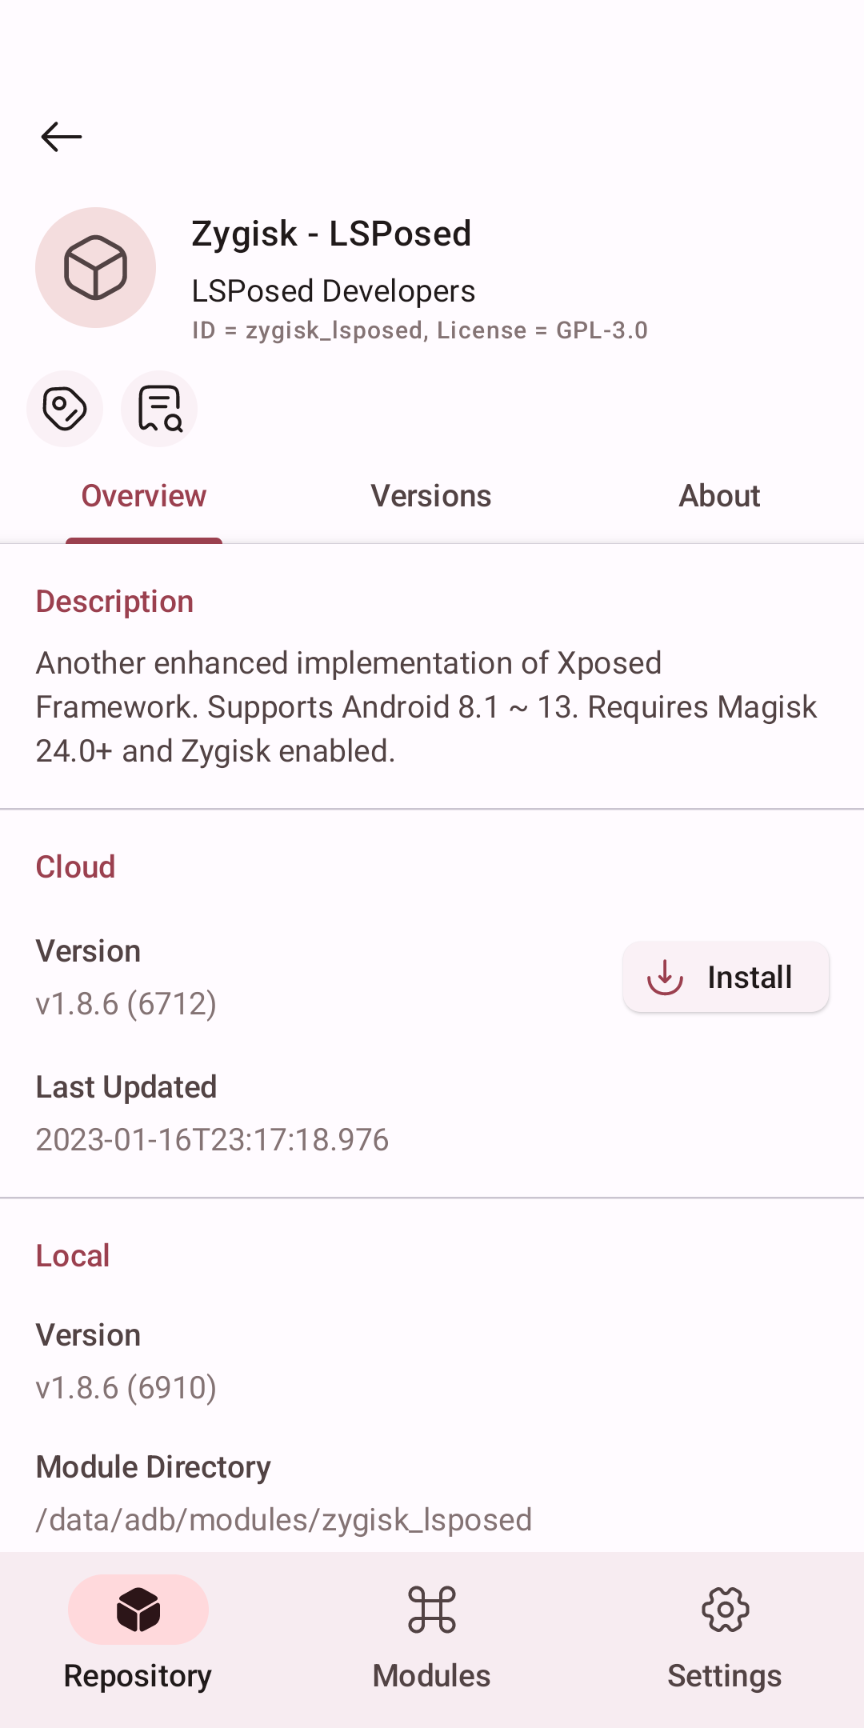
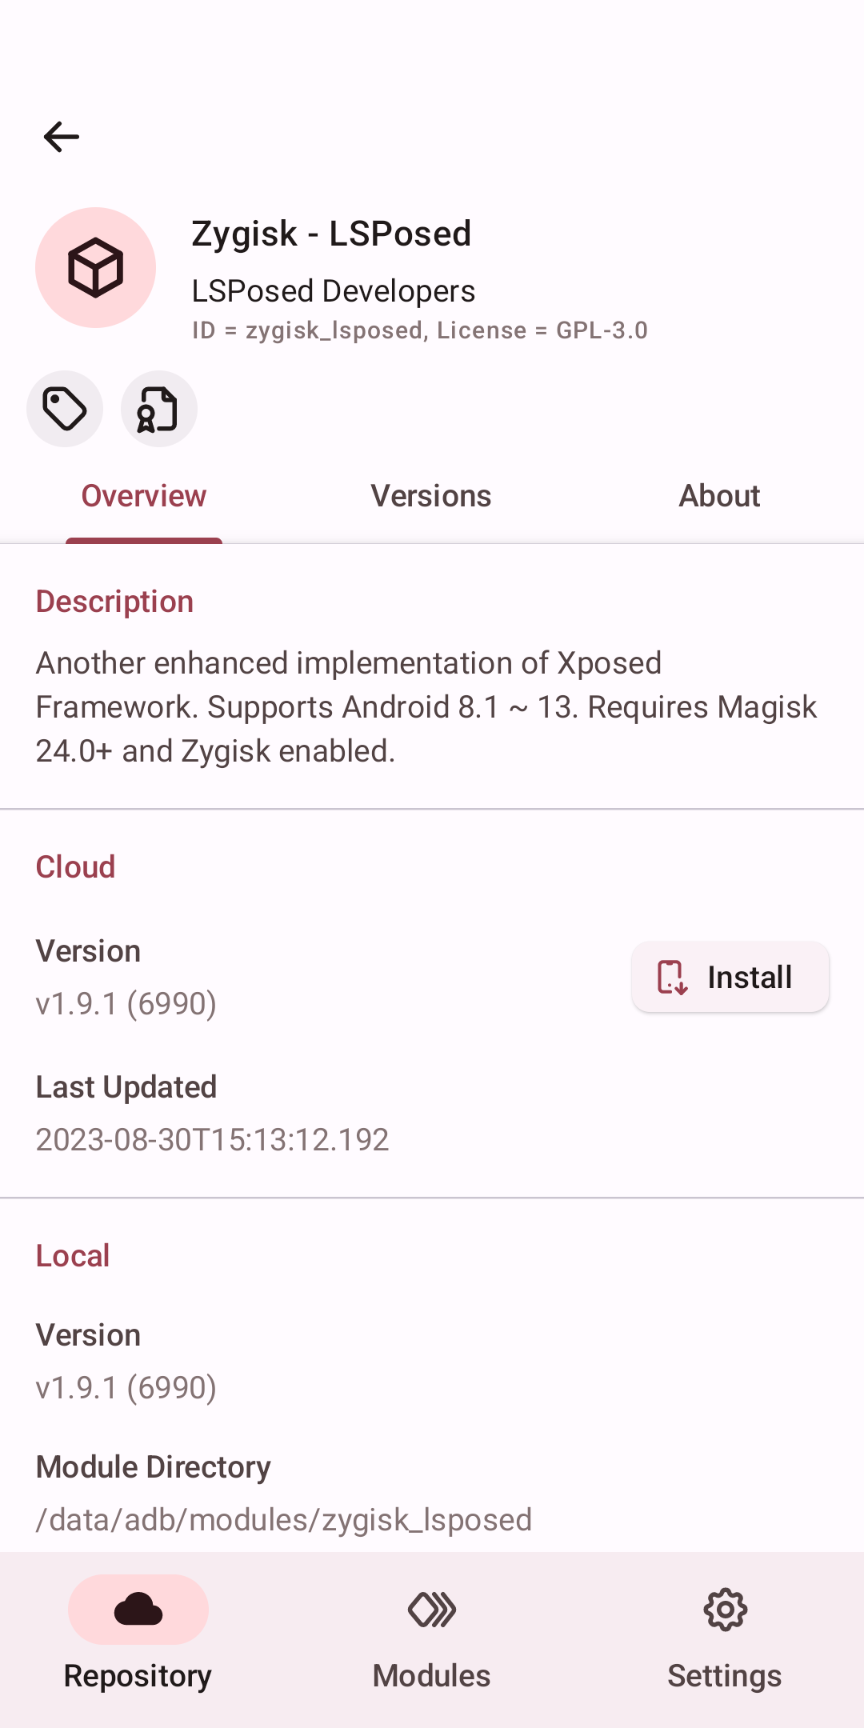
[skip ci] Update screenshots

diff --git a/README.md b/README.md
@@ -25,7 +25,7 @@ MRepo is written with [Jetpack Compose](https://developer.android.com/jetpack/co
  - [ya0211/magisk-modules-alt-repo](https://github.com/ya0211/magisk-modules-alt-repo): a mirror of Magisk-Modules-Alt-Repo
 
 ## Credits
-- [Iconsax](https://iconsax.io): the icons of the Vuesax framework
+ - [tabler/tabler-icons](https://github.com/tabler/tabler-icons.git)
 
 ## License
 
